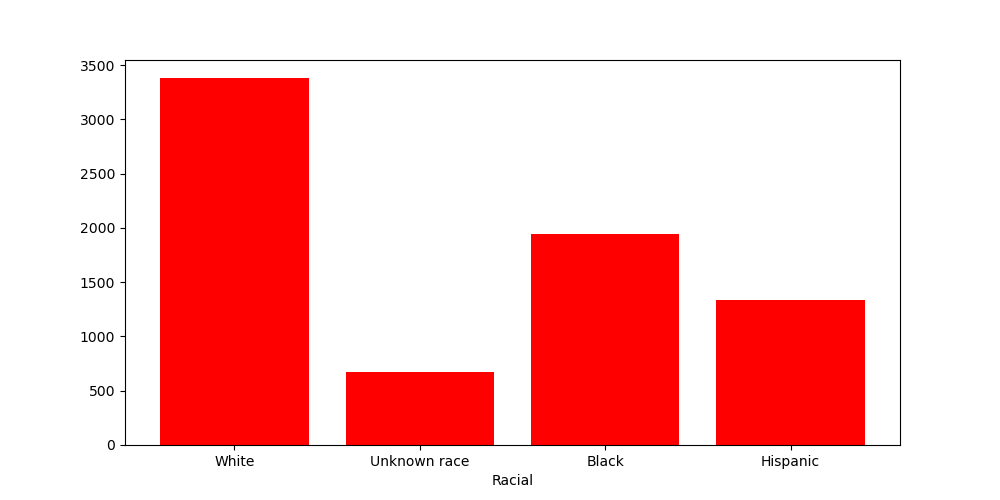
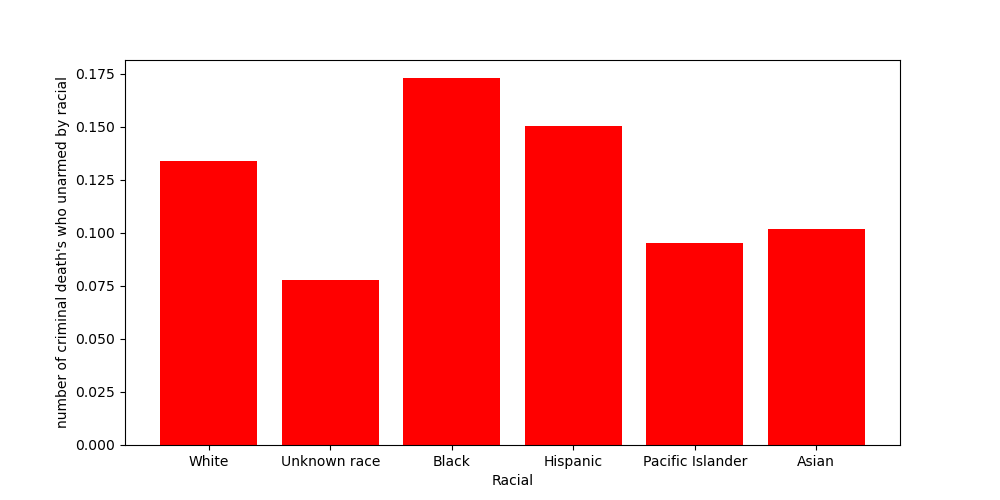
new

diff --git a/rip_floyd/main/templates/main.html b/rip_floyd/main/templates/main.html
@@ -3,14 +3,50 @@
 <head>
     <meta charset="UTF-8">
     <meta name="viewport" content="width=device-width, initial-scale=1.0">
-    <title>Police Violance US</title>
+    <title>US Violance between criminal and police</title>
+    <style>
+        .plot{
+            display:flex;
+        }
+
+        .plot p{
+            padding-top: 25px;
+            font-size:20px;
+        }
+
+        .plot img{
+            height:300px;
+            width:700px;
+        }
+    </style>
 </head>
 <body>
-    <h1>US Police Violance Analysis</h1>
+    <div id = "plotpart">
+    <h1 style="text-align: center;">US Police Violance Analysis</h1>
     
-    <img src="/static/img/plot1.png" alt="">
-    <img src="/static/img/plot3.png" alt="">
-    <img src="/static/img/plot4.png" alt="">
-    <img src="/static/img/plot5.png" alt="">
+    <div class="plot">
+        <img src="/static/img/plot1.png" alt="">
+        <p>There are lots's of death's of criminal, especially in <b>California, Texas, Florida</b>.</p>
+    </div>
+    
+    <div class="plot">
+        <img src="/static/img/plot3.png" alt="">
+        <p>Even though, white people do more criminals, but high probability killed unarmed people is <b>Black</b>...</p>
+    </div>
+
+    <div class="plot">
+        <img src="/static/img/plot4.png" alt="">
+        <p>There are police death statistics... many deaths in <b>Texas, California, NewYork</b></p>
+    </div>
+    
+    <div class="plot">
+        <img src="/static/img/plot5.png" alt="">
+        <p>State happens high number of criminal deaths seemd to have tendency to high police deaths... </p>
+    </div>
+</div>
+    <div id="newspart">
+
+    </div>
+    
 </body>
 </html>

diff --git a/rip_floyd/main/templates/crawl.html b/rip_floyd/main/templates/crawl.html
@@ -1,0 +1,8 @@
+<a href="{% url 'crawl' %}">news</a>
+    {% if news %}
+    {% for i in news%}
+    <div>
+        <img src="{{i.img.url}}" alt="">
+    </div>
+    {% endfor %}
+    {% endif %}

diff --git a/rip_floyd/main/views.py b/rip_floyd/main/views.py
@@ -4,8 +4,10 @@ import calendar
 import matplotlib.pyplot as plt
 import calmap
 import numpy as np
-from .models import Victims, Police_victim
+from .models import Victims, Police_victim,News
 from sklearn.linear_model import LinearRegression
+from . import crawl
+
 # Create your views here.
 
 
@@ -35,11 +37,12 @@ def main(request):
     state_list_count2=sorted(state_list_count.items(), reverse=True, key=lambda item: item[1])
     x=[]
     y=[]
-    for i in range(0,20):
+    for i in range(0,40):
         x.append(state_list_count2[i][0])
         y.append(state_list_count2[i][1])
     plt.figure(figsize=(10,5))
-    plt.bar(x[0:20],y[0:20], color='red')
+    plt.bar(x[0:40],y[0:40], color='red')
+    plt.ylabel("Number of criminal's death")
     plt.xlabel('state')
     plt.savefig('C:/Users/user/Desktop/dbproject/dbwebprograming/rip_floyd/static/img/plot1.png')
 
@@ -66,6 +69,14 @@ def main(request):
     ##인종별
     racial_list = list(set(data["race"]))
     racial_list_count = {}
+    racial_unarmed_count = []
+    white_count = 0
+    unknown_count = 0
+    black_count = 0
+    hispanic_count = 0
+    pacific_count = 0
+    asian_count = 0
+
     for i in range(0,len(data)):
         racial_data = data["race"][i]
         if racial_data in racial_list_count:
@@ -73,9 +84,30 @@ def main(request):
         else:
             racial_list_count[racial_data]=1
 
+    for i in range(0, len(data)):
+        if data["race"][i] == "White" and data["unarmed"][i] == "Unarmed":
+            white_count += 1
+        elif data["race"][i] == "Unknown race" and data["unarmed"][i] == "Unarmed":
+            unknown_count += 1
+        elif data["race"][i] == "Black" and data["unarmed"][i] == "Unarmed":
+            black_count += 1
+        elif data["race"][i] == "Hispanic" and data["unarmed"][i] == "Unarmed":
+            hispanic_count += 1
+        elif data["race"][i] == "Pacific Islander" and data["unarmed"][i] == "Unarmed":
+            pacific_count += 1
+        elif data["race"][i] == "Asian" and data["unarmed"][i] == "Unarmed":
+            asian_count += 1
+
+    racial_unarmed_list = [white_count,unknown_count,black_count,hispanic_count,pacific_count,asian_count]
+    prob_list=[]
+    for i in range(0,6):
+        prob_list.append(racial_unarmed_list[i]/list(racial_list_count.values())[i])
+    
+
     plt.figure(figsize=(10,5))
-    plt.bar(list(racial_list_count.keys())[0:4],list(racial_list_count.values())[0:4], color='red')
+    plt.bar(list(racial_list_count.keys())[0:6],prob_list[0:6], color='red')
     plt.xlabel('Racial')
+    plt.ylabel("number of criminal death's who unarmed by racial")
     plt.savefig('C:/Users/user/Desktop/dbproject/dbwebprograming/rip_floyd/static/img/plot3.png')
 
     ##경찰들 순직사건 주별로
@@ -103,6 +135,7 @@ def main(request):
     plt.figure(figsize=(10,5))
     plt.bar(x2[0:20], y2[0:20], color='red')
     plt.xlabel('State')
+    plt.ylabel("number of police's death")
     plt.savefig('C:/Users/user/Desktop/dbproject/dbwebprograming/rip_floyd/static/img/plot4.png')
             
     ##경찰들의 총기순직사건과 범죄자들의 과잉진압 사건 회귀분석
@@ -128,5 +161,15 @@ def main(request):
 
     plt.savefig('C:/Users/user/Desktop/dbproject/dbwebprograming/rip_floyd/static/img/plot5.png')
 
-    return render(request, 'main.html')
+    def crawl(request):
+        news_list = crawl.croller()
+        for i in news_list:
+            django_news = News()
+            django_news.title = i.title
+            django_news.timestamp = i.time_stamp
+            django_news.img = urllib.request.urlretrieve(i.img_url)
+            django_news.save()
+        all_news = News.objects.all()
+        context = {'news':all_news}
+    return render(request, 'crawl.html', context)
 

diff --git a/rip_floyd/main/crawl.py b/rip_floyd/main/crawl.py
@@ -1,0 +1,50 @@
+from selenium import webdriver
+from selenium.webdriver.common.keys import Keys 
+from selenium.common.exceptions import NoSuchElementException, TimeoutException,StaleElementReferenceException
+import urllib.request
+import requests
+import datetime
+import os
+os.environ.setdefault("DJANGO_SETTINGS_MODUULE", "rip_floyd.settings")
+import django
+django.setup()
+
+
+class Result_node():
+
+    def __init__(self,title, img_url, time_stamp=datetime.datetime.now()):
+        self.title = title
+        self.img_url = img_url
+        self.time_stamp = time_stamp
+
+def croller():
+
+    chrome_options = webdriver.ChromeOptions()
+    #chrome_options.add_argument('--headless')
+    chrome_options.add_argument('--no-sandbox')
+    chrome_options.add_argument('--disable-dev-shm-usage')
+
+
+    driver = webdriver.Chrome('C:/Users/user/Desktop/dbproject/chromedriver.exe', chrome_options = chrome_options) # 로컬에서 돌릴때
+
+    driver.get("https://news.google.com/search?q=george%20floyd%20when%3A1h&hl=en-US&gl=US&ceid=US%3Aen")
+    
+    i = 1
+    result_node_list = []
+    while True:
+        try:
+            title = driver.find_element_by_xpath('//*[@id="yDmH0d"]/c-wiz/div/div[2]/div[2]/div/main/c-wiz/div[1]/div['+str(i)+']/div/article/h3/a')
+                                                  
+            title_text = title.text
+            img = driver.find_element_by_xpath('//*[@id="i'+str(i*2+2)+'"]')
+            img_url = img.get_attribute('src')
+            news_obj = Result_node(title_text,img_url)
+            result_node_list.append(news_obj)
+            i = i+1
+            pass
+        except NoSuchElementException:
+            break
+        
+    return result_node_list
+
+

diff --git a/rip_floyd/main/models.py b/rip_floyd/main/models.py
@@ -25,7 +25,14 @@ class Police_victim(models.Model):
     cause_of_death = models.TextField(max_length=50, default='default_manner_of_death', verbose_name='사인')
     def __str__(self):
         return self.name
-   
+
+class News(models.Model):
+    title = models.TextField(max_length=500)
+    img = models.ImageField(blank=True)
+    timestamp = models.TextField(max_length=50)
+    
+    def __str__(self):
+        return self.title
 
     
    

diff --git a/rip_floyd/rip_floyd/settings.py b/rip_floyd/rip_floyd/settings.py
@@ -123,5 +123,11 @@ STATIC_URL = '/static/'
 STATICFILES_DIRS = (
     os.path.join(BASE_DIR, 'static'),
 )
+# 각 media 파일에 대한 URL Prefix
+MEDIA_URL = '/media/' # 항상 / 로 끝나도록 설정
+# MEDIA_URL = 'http://static.myservice.com/media/' 다른 서버로 media 파일 복사시
+
+# 업로드된 파일을 저장할 디렉토리 경로
+MEDIA_ROOT = os.path.join(BASE_DIR, 'media')
 
 IMPORT_EXPORT_USE_TRANSACTIONS = True

diff --git a/rip_floyd/rip_floyd/urls.py b/rip_floyd/rip_floyd/urls.py
@@ -22,5 +22,6 @@ from django.conf import settings
 urlpatterns = [
     path('admin/', admin.site.urls),
     path('',views.main, name='main'),
-    
-]+static(settings.STATIC_URL, document_root=settings.STATIC_ROOT)
+    path('crawl/',views.crawl, name="crawl"),
+
+] +static(settings.STATIC_URL, document_root=settings.STATIC_ROOT)
